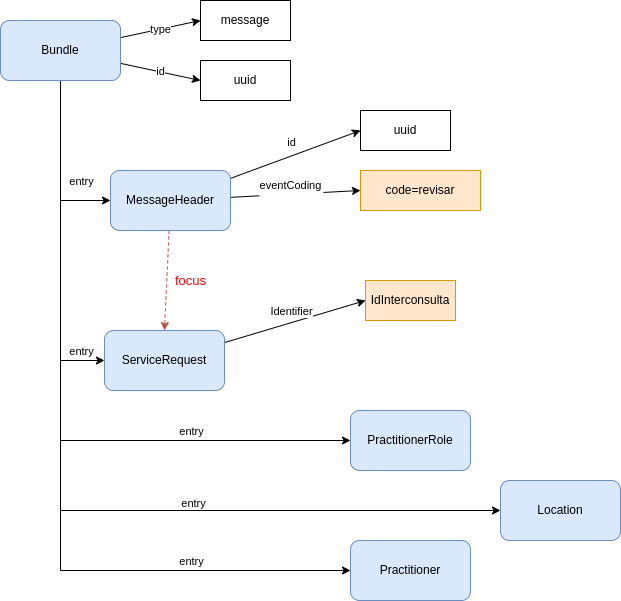
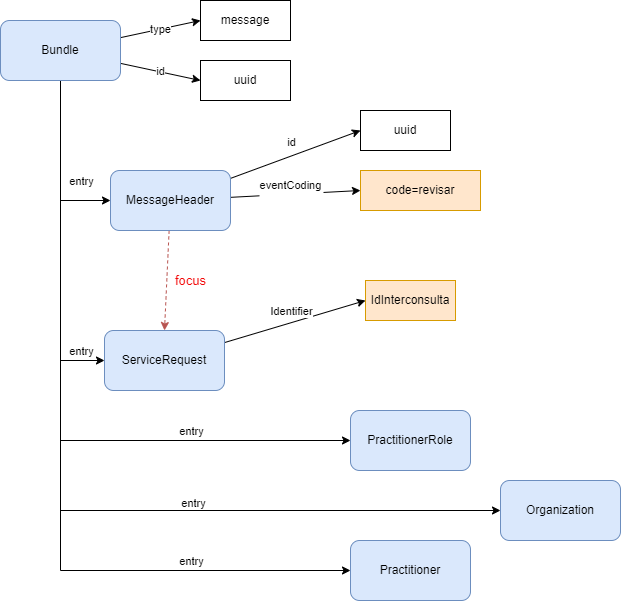
agregando eventoRevisar v3

diff --git a/input/pagecontent/EventoRevisar.md b/input/pagecontent/EventoRevisar.md
@@ -23,11 +23,12 @@ Los codigos de evento deben ser incluidos en el recurso **MessageHeader.evenCodi
 
 Los recursos usados en este evento son los siguientes:
 
-* [ServiceRequest](link): Recurso principal para reflejar los datos de la interconsulta
-* [MessageHeader](link): lorem
-* [PractitionerRole](link): lorem
-* [Practitioner](link): lorem
-* [Location](link): lorem
+* [BundleRevisarLE](StructureDefinition-BundleRevisarLE.html): Recurso que permite agrupar los datos del mensaje.
+* [ServiceRequestLE](StructureDefinition-ServiceRequestLE.html): Recurso principal para reflejar los datos de la revision (MessageHeader.focus)
+* [MessageHeaderLE](StructureDefinition-MessageHeaderLE.html): Recurso que contiene datos relacionados al mensaje, como el autor, tipo de evento y foco del mensaje.
+* [PractitionerRoleLE](StructureDefinition-PractitionerRoleLE.html): Recurso que permite reflejar la información relacionada al invididuo autor del proceso (MessageHeader.author)
+* [PractitionerLE](StructureDefinition-PractitionerLE.html): Recurso que permite reflejar la informacion asociada a la identificación del profesional de la salud.
+* [OrganizationLE](StructureDefinition-OrganizationLE.html): Recurso que permite relacionar la interconsulta con el establecimiento de destino
 
 ## Relaciones de Recursos
 
@@ -42,11 +43,28 @@ Los recursos usados en este evento son los siguientes:
 
 El evento **revisar** debe soportar a siguiente secuencia:
 
-Diagrama de Secuencia por definir
+<div align="center" >
+{% include evento-revisar.svg %}
+</div>
+## Consideraciones
+
+Las validaciones internas que debe tener el implementador deben considerar cumplir con el conjunto de datos detallado en [Conjunto mínimo de datos](http://link)
 
 ## Consideraciones
 
 Las validaciones internas que debe tener el implementador deben considerar cumplir con el conjunto de datos detallado en [Conjunto mínimo de datos](http://link)
+
+
+* Debe incluir el recurso [BundleRevisarLE](StructureDefinition-BundleRevisarLE.html)
+* Debe incluir el recurso [MessageHeaderLE](StructureDefinition-MessageHeaderLE.html) con el valor **MessageHeader.evenCoding.code=revisar** 
+* Debe incluir el recurso [ServiceRequestLE](StructureDefinition-ServiceRequestLE.html) con los valores de **ServiceRequest.status=draft** **ServiceRequest.intent=proposal** 
+* Debe incluir el recurso [PractitionerRoleLE](StructureDefinition-PractitionerRoleLE.html)
+* Debe incluir el recurso [OrganizationLE](StructureDefinition-OrganizationLE.html)
+* Debe incluir el recurso [PractitionerLE](StructureDefinition-PractitionerLE.html)
+
+## Mensaje Bundle de Ejemplo
+
+* [BundleTerminarLE](Bundle-EjemploBundleRevisar.html)
 
 ## Notas
 
